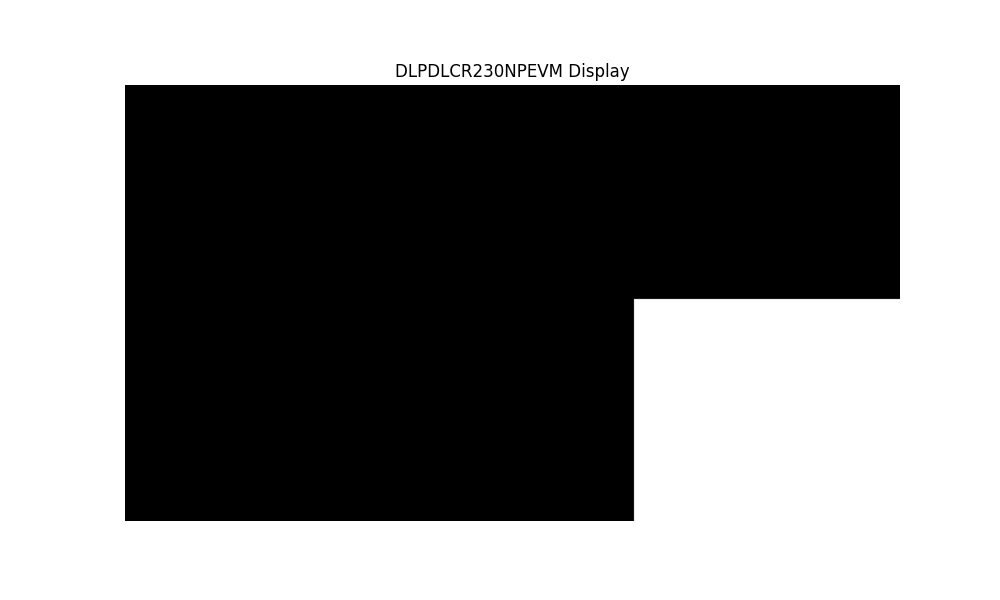
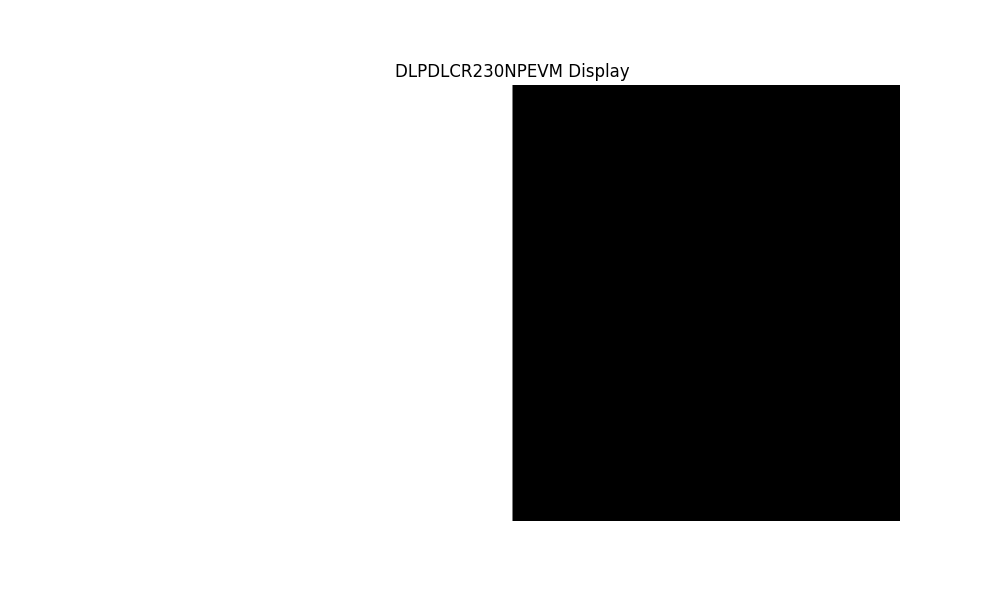
Added live annotations

diff --git a/sequential_test.py b/sequential_test.py
@@ -240,6 +240,172 @@ class Cmd():
 
 
 
+class knife:
+    def __init__(self, cx=DisplaySize[1]//2, cy=DisplaySize[0]//2):
+        """Create a knife image with a given center."""
+        # Create an empty array with the specified size
+        global right, up
+        self.cx = DisplaySize[1] // 2
+        self.cy = DisplaySize[0] // 2
+        self.edge_func = self.edge1
+        
+    def __call__(self):
+        """ Call the knife object to get the image."""
+        return self.get_image()
+    
+    def edge1(self):
+        """ Create an image of edge 1 """
+        y0 = 0
+        y1 = DisplaySize[0]
+        x0 = self.cx
+        x1 = DisplaySize[1]
+        return y0, y1, x0, x1
+    
+    def edge2(self):
+        """ Create an image of edge 2 """
+        y0 = 0
+        y1 = DisplaySize[0]
+        x0 = 0
+        x1 = self.cx
+        return y0, y1, x0, x1
+    
+    def edge3(self):
+        """ Create an image of edge 3 """
+        y0 = self.cy
+        y1 = DisplaySize[0]
+        x0 = 0
+        x1 = DisplaySize[1]
+        return y0, y1, x0, x1
+    
+    def edge4(self):
+        """ Create an image of edge 4 """
+        y0 = 0
+        y1 = self.cy
+        x0 = 0
+        x1 = DisplaySize[1]
+        return y0, y1, x0, x1
+    
+    def get_image(self):
+        global right, up
+        self.cx = DisplaySize[1] // 2 + right
+        self.cy = DisplaySize[0] // 2 + up
+        img = np.zeros(DisplaySize, dtype='uint32')
+        start_y, end_y, start_x, end_x = self.edge_func()
+        # Fill the image area with white color (255, 255, 255)
+        img[start_y:end_y, start_x:end_x] = 0xffffffff #2**32-1
+        
+        return img
+    
+    
+    
+class pyramid:
+    def __init__(self, cx=DisplaySize[1]//2, cy=DisplaySize[0]//2):
+        """Create a knife image with a given center."""
+        # Create an empty array with the specified size
+        global right, up
+        self.cx = DisplaySize[1] // 2
+        self.cy = DisplaySize[0] // 2
+        self.edge_func = self.edge1
+        
+    def __call__(self):
+        """Call the pyramid object to get the image."""
+        return self.get_image()
+    
+    def edge1(self):
+        """ Create an image of edge 1 """
+        y0 = self.cy
+        y1 = DisplaySize[0]
+        x0 = self.cx
+        x1 = DisplaySize[1]
+        return y0, y1, x0, x1
+    
+    def edge2(self):
+        """ Create an image of edge 2 """
+        y0 = self.cy
+        y1 = DisplaySize[0]
+        x0 = 0
+        x1 = self.cx
+        return y0, y1, x0, x1
+    
+    def edge3(self):
+        """ Create an image of edge 3 """
+        y0 = 0
+        y1 = self.cy
+        x0 = 0
+        x1 = self.cx
+        return y0, y1, x0, x1
+    
+    def edge4(self):
+        """ Create an image of edge 4 """
+        y0 = 0
+        y1 = self.cy
+        x0 = self.cx
+        x1 = DisplaySize[1]
+        return y0, y1, x0, x1
+    
+    def get_image(self):
+        global right, up
+        self.cx = DisplaySize[1] // 2 + right
+        self.cy = DisplaySize[0] // 2 + up
+        img = np.zeros(DisplaySize, dtype='uint32')
+        start_y, end_y, start_x, end_x = self.edge_func()
+        # Fill the image area with white color (255, 255, 255)
+        img[start_y:end_y, start_x:end_x] = 0xffffffff #2**32-1
+        
+        return img
+
+
+
+class shapes:
+    """
+    A class to hold the shapes to display.
+    This is used to create a list of shapes that can be displayed.
+    """
+    def __init__(self):
+        self.k = knife()
+        self.p = pyramid()
+        self.shape = self.k
+
+
+    def change_to_knife(self):
+        print("Changing to knife edge shape.")
+        self.shape = self.k
+        
+    def change_to_pyramid(self):
+        print("Changing to pyramid shape.")
+        self.shape = self.p
+
+    # def __len__(self):
+    #     return len(self.shapes)
+    
+    def reset_shapes(self):
+        """
+        Resets the shapes to the initial state.
+        """
+        global right, up
+        right = 0
+        up = 0
+        return None
+    
+    
+    def change_to_edge_1(self):
+        print("Changing to edge 1.")
+        self.shape.edge_func = self.shape.edge1
+        
+    def change_to_edge_2(self):
+        print("Changing to edge 2.")
+        self.shape.edge_func = self.shape.edge2
+
+    def change_to_edge_3(self):
+        print("Changing to edge 3.")
+        self.shape.edge_func = self.shape.edge3
+        
+    def change_to_edge_4(self):
+        print("Changing to edge 4.")
+        self.shape.edge_func = self.shape.edge4
+
+
+
 
 
 def StreamFrameBuffer():
@@ -295,6 +461,24 @@ def Menu():
 
 
 
+def initialize_offsets():
+    init_offset = input("Enter the initial offset (x,y) in pixels (default is 0,0): ")
+    if init_offset:
+        try:
+            right, up = map(int, init_offset.split(','))
+            print(f"Initial offset set to x={right}, y={up}")
+        except ValueError:
+            print("Invalid input. Using default offset of x=0, y=0.")
+            right = 0
+            up = 0
+    else:
+        print("Using default offset of x=0, y=0.")
+        right = 0
+        up = 0
+        
+    return right, up
+        
+
 def main():
     global mode
     # Define the shapes to display
@@ -336,8 +520,8 @@ def main():
     loop = True
     global stop; stop = False
     global right, up
-    right = 0
-    up = 0
+    right, up = initialize_offsets()
+    
     global locked; locked = False
     global sq_size
     # Thread to run StreamFrameBuffer

diff --git a/sequential.py b/sequential.py
@@ -365,9 +365,11 @@ class shapes:
 
 
     def change_to_knife(self):
+        print("Changing to knife edge shape.")
         self.shape = self.k
         
     def change_to_pyramid(self):
+        print("Changing to pyramid shape.")
         self.shape = self.p
 
     # def __len__(self):
@@ -384,15 +386,19 @@ class shapes:
     
     
     def change_to_edge_1(self):
+        print("Changing to edge 1.")
         self.shape.edge_func = self.shape.edge1
         
     def change_to_edge_2(self):
+        print("Changing to edge 2.")
         self.shape.edge_func = self.shape.edge2
 
     def change_to_edge_3(self):
+        print("Changing to edge 3.")
         self.shape.edge_func = self.shape.edge3
         
     def change_to_edge_4(self):
+        print("Changing to edge 4.")
         self.shape.edge_func = self.shape.edge4
 
 
@@ -503,6 +509,24 @@ def Menu():
     return None
 
 
+def initialize_offsets():
+    init_offset = input("Enter the initial offset (x,y) in pixels (default is 0,0): ")
+    if init_offset:
+        try:
+            right, up = map(int, init_offset.split(','))
+            print(f"Initial offset set to x={right}, y={up}")
+        except ValueError:
+            print("Invalid input. Using default offset of x=0, y=0.")
+            right = 0
+            up = 0
+    else:
+        print("Using default offset of x=0, y=0.")
+        right = 0
+        up = 0
+        
+    return right, up
+
+
 
 def main():
     global mode
@@ -556,8 +580,7 @@ def main():
     loop = True
     global stop; stop = False
     global right, up
-    right = 0
-    up = 0
+    right, up = initialize_offsets()
     global locked; locked = False
     global sq_size
     # Thread to run StreamFrameBuffer
